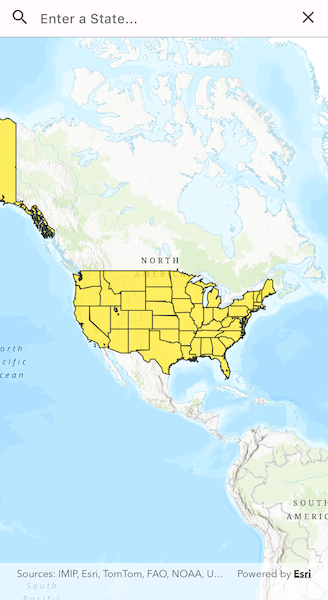
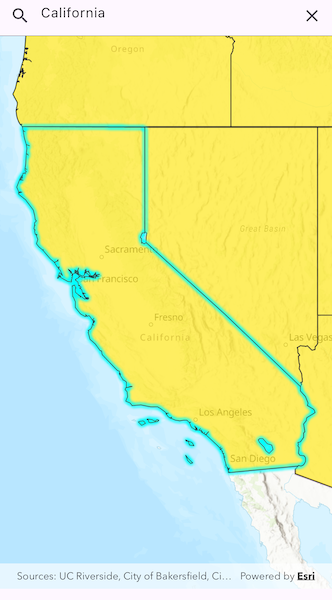
Added a new screenshot that matched the common design and made the suggested refactoring changes to the code

diff --git a/lib/samples/query_feature_table/query_feature_table_sample.dart b/lib/samples/query_feature_table/query_feature_table_sample.dart
@@ -28,9 +28,6 @@ class QueryFeatureTableSample extends StatefulWidget {
 class _QueryFeatureTableSampleState extends State<QueryFeatureTableSample> {
   // create a controller for the map view.
   final _mapViewController = ArcGISMapView.createController();
-  // create a feature table and a feature layer.
-  late ServiceFeatureTable _featureTable;
-  late FeatureLayer _featureLayer;
   // create a text editing controller.
   final _textEditingController = TextEditingController();
   // create a focus node for the search text field.
@@ -44,6 +41,10 @@ class _QueryFeatureTableSampleState extends State<QueryFeatureTableSample> {
     ),
     scale: 100000000,
   );
+  // create a feature table and a feature layer.
+  final ServiceFeatureTable _featureTable = ServiceFeatureTable.withUri(Uri.parse(
+      'https://services.arcgis.com/jIL9msH9OI208GCb/arcgis/rest/services/USA_Daytime_Population_2016/FeatureServer/0'));
+  late FeatureLayer _featureLayer;
 
   @override
   void dispose() {
@@ -90,10 +91,6 @@ class _QueryFeatureTableSampleState extends State<QueryFeatureTableSample> {
     // create a map with the topographic basemap style and set to the map view.
     final map = ArcGISMap.withBasemapStyle(BasemapStyle.arcGISTopographic);
 
-    // create a feature table and a feature layer.
-    _featureTable = ServiceFeatureTable.withUri(Uri.parse(
-        'https://services.arcgis.com/jIL9msH9OI208GCb/arcgis/rest/services/USA_Daytime_Population_2016/FeatureServer/0'));
-    await _featureTable.load();
     // create a feature layer and amend the opacity and max scale properties.
     _featureLayer = FeatureLayer.withFeatureTable(_featureTable)
       ..opacity = 0.8
@@ -110,12 +107,11 @@ class _QueryFeatureTableSampleState extends State<QueryFeatureTableSample> {
     final renderer = SimpleRenderer(symbol: fillSymbol);
     _featureLayer.renderer = renderer;
 
+    // add the feature layer to the map and define an initial viewpoint.
     map.operationalLayers.add(_featureLayer);
-
+    map.initialViewpoint = _initialViewpoint;
     // set the map to the map view.
     _mapViewController.arcGISMap = map;
-    // zoom to a specific extent.
-    _mapViewController.setViewpoint(_initialViewpoint);
   }
 
   void onSearchSubmitted(String value) async {

diff --git a/lib/samples/query_feature_table/README.md b/lib/samples/query_feature_table/README.md
@@ -6,7 +6,7 @@ Find features in a feature table which match an SQL query.
 
 ## Use case
 
-Query expressions can be used in ArcGIS to select a subset of features from a feature table. This is most useful in large or complicated data sets. A possible use case might be on a feature table marking the location of street furniture through a city. A user may wish to query by a TYPE column to return "benches". In this sample, we query a U.S. state by STATE_NAME from a feature table containing all U.S. states.
+Query expressions can be used in ArcGIS to select a subset of features from a feature table. This is most useful in large or complicated data sets. A possible use case might be on a feature table marking the location of street furniture throughout a city. A user may wish to query by a TYPE column to return "benches". In this sample, we query a U.S. state by STATE_NAME from a feature table containing all U.S. states.
 
 ## How to use the sample
 
